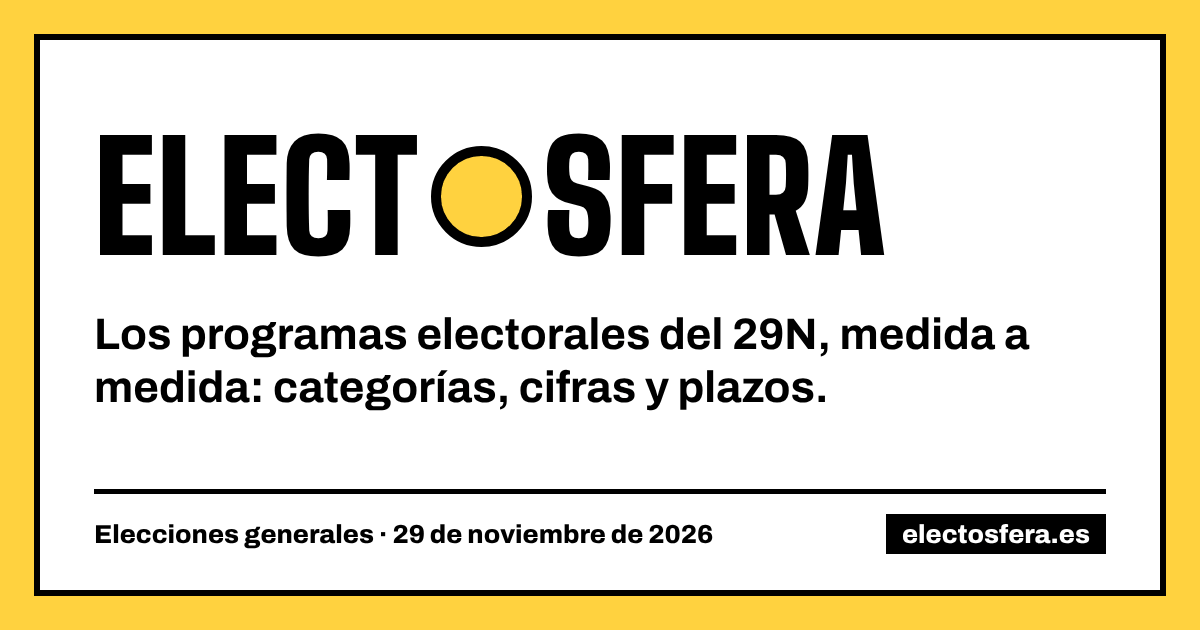
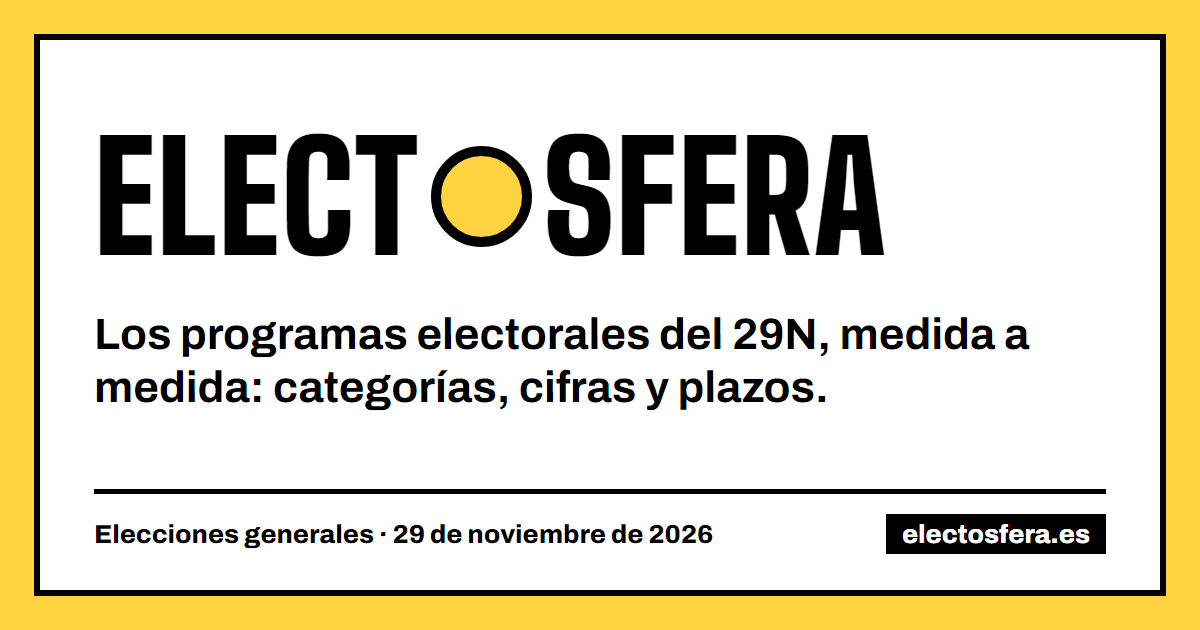
Posturas de Comuns, revisión de Alhora y sin tarjetas estáticas
- «Temas que dividen»: las posturas de Comuns en diez temas.
- Las cifras revisadas del programa de Alhora.
- Se borran las tarjetas estáticas de los partidos: las dibuja el Worker.
  La portada se vuelve a generar con la versión actual de las fuentes.

diff --git a/src/data/2026/generales/posturas.ts b/src/data/2026/generales/posturas.ts
@@ -57,6 +57,7 @@ export const stances: Stance[] = [
   { topic: 'aborto', party: 'fa', side: 'a', measures: [122, 123, 202], note: 'Blindaje constitucional del aborto «libre y universal» en la sanidad pública y una estrategia para garantizar la IVE en todas las comunidades.' },
   { topic: 'aborto', party: 'eh-bildu', side: 'a', measures: [121, 122], note: 'Blindar el derecho al aborto con acceso libre, seguro y confidencial, y protección frente al acoso en los centros.' },
   { topic: 'aborto', party: 'nex', side: 'a', measures: [129], note: 'Aborto garantizado en los centros públicos.' },
+  { topic: 'aborto', party: 'comuns', side: 'a', measures: [593], note: 'Un aborto seguro, legal y gratuito en cualquier lugar del territorio.' },
 
   // Monarquía o república
   { topic: 'monarquia', party: 'pfac', side: 'b', measures: [12], note: 'Avanzar hacia un Estado republicano, federal y laico.' },
@@ -78,6 +79,7 @@ export const stances: Stance[] = [
   { topic: 'autodeterminacion', party: 'fa', side: 'matiz', measures: [819, 821, 621], note: 'Una República Federal, un «federalismo social y plurinacional» y un pacto territorial con el máximo desarrollo de los Estatutos, sin proponer un referéndum de autodeterminación en España.' },
   { topic: 'autodeterminacion', party: 'eh-bildu', side: 'a', measures: [152, 153, 154], note: 'Reconocer a Euskal Herria como nación y el derecho a decidir del pueblo vasco como vía democrática para resolver el conflicto político con el Estado.' },
   { topic: 'autodeterminacion', party: 'alhora', side: 'a', measures: [1, 2, 4, 33], note: 'La independencia como objetivo: uso estratégico de las instituciones y confrontación continuada con el Estado.' },
+  { topic: 'autodeterminacion', party: 'comuns', side: 'a', measures: [890], note: 'Un cambio del modelo territorial en sentido federal y plurinacional, con el derecho a decidir mediante referéndum.' },
 
   // Vivienda: control del alquiler
   { topic: 'vivienda', party: 'adelante', side: 'a', measures: [160, 161, 164], note: 'Alquiler social obligatorio, alquiler al 20 % del salario y zonas tensionadas obligatorias.' },
@@ -106,6 +108,7 @@ export const stances: Stance[] = [
   { topic: 'vivienda', party: 'fia', side: 'b', measures: [7], note: 'Derogar el Real Decreto-ley del alquiler y la ley okupa, con el derecho a la propiedad privada por delante.' },
   { topic: 'vivienda', party: 'alhora', side: 'matiz', measures: [26, 29], note: 'Un gran parque público de alquiler, pero con un mercado privado «sense topall de preu» y garantías públicas ante el impago.' },
   { topic: 'vivienda', party: 'ixlg', side: 'matiz', measures: [2, 3], note: 'Más alquiler público permanente y prioridad del uso residencial frente al alquiler turístico, sin hablar de limitar los precios.' },
+  { topic: 'vivienda', party: 'comuns', side: 'a', measures: [19], note: 'Reforzar los mecanismos de regulación y control de los alquileres.' },
 
   // Religión y educación
   { topic: 'religion-educacion', party: 'bng', side: 'a', measures: [167], note: 'La Religión fuera del currículo y renegociar el concordato con la Santa Sede.' },
@@ -142,6 +145,7 @@ export const stances: Stance[] = [
   { topic: 'igualdad', party: 'fa', side: 'a', measures: [203, 211, 221], note: 'Erradicar la violencia machista y LGTBIfóbica, reforzar VioGén y la violencia vicaria y una estrategia estatal de educación en igualdad.' },
   { topic: 'igualdad', party: 'eh-bildu', side: 'a', measures: [125, 126, 127], note: 'Reconocer y penalizar la violencia vicaria, combatir los discursos antifeministas y revisar los recursos de protección de las víctimas.' },
   { topic: 'igualdad', party: 'nex', side: 'a', measures: [141], note: 'Refuerzo del Pacto de Estado contra la Violencia de Género y blindaje legal de los derechos LGTBI.' },
+  { topic: 'igualdad', party: 'comuns', side: 'a', measures: [796], note: 'Reforzar el sistema VioGén para proteger a las víctimas de la violencia machista.' },
 
   // Memoria histórica
   { topic: 'memoria', party: 'adelante', side: 'a', measures: [567, 572], note: 'Fin de la impunidad y la memoria en las aulas.' },
@@ -173,6 +177,7 @@ export const stances: Stance[] = [
   { topic: 'nuclear', party: 'compromis-front-valencia', side: 'a', measures: [248], note: 'Mantener el calendario de cierre de las centrales nucleares y no aceptar ninguna prórroga.' },
   { topic: 'nuclear', party: 'fa', side: 'a', measures: [389], note: 'Cumplir el calendario de cierre de las centrales nucleares: Almaraz I y II cerrarán en los plazos previstos, sin beneficios fiscales.' },
   { topic: 'nuclear', party: 'eh-bildu', side: 'a', measures: [93], note: 'Mantener el calendario de cierre nuclear del PNIEC.' },
+  { topic: 'nuclear', party: 'comuns', side: 'a', measures: [330], note: 'Cierre nuclear sin más prórrogas, sin nuevos reactores y sin beneficios fiscales.' },
 
   // Impuestos y redistribución
   { topic: 'impuestos', party: 'adelante', side: 'a', measures: [232, 233], note: 'IRPF más progresivo y un impuesto sobre la riqueza.' },
@@ -206,6 +211,7 @@ export const stances: Stance[] = [
   { topic: 'lenguas', party: 'alhora', side: 'a', measures: [6, 8, 9, 10], note: 'Escuelas 100 % en catalán, TV3 exclusivamente en catalán y contratos públicos solo a quien respete el catalán.' },
   { topic: 'lenguas', party: 'agenda-valenciana', side: 'a', measures: [10], note: 'Proteger y fomentar activamente el uso de la lengua valenciana.' },
   { topic: 'lenguas', party: 'eguzkilore', side: 'matiz', measures: [50], note: 'Dos lenguas en Navarra, castellano y euskera, que «convivan con respeto», sin medidas concretas.' },
+  { topic: 'lenguas', party: 'comuns', side: 'a', measures: [605], note: 'Defender la inmersión lingüística catalana y el catalán como lengua vehicular de la escuela.' },
 
   // Penas y facultades policiales
   { topic: 'seguridad', party: 'adelante', side: 'a', measures: [487, 496], note: 'Derogar la «ley mordaza» y la prisión permanente revisable.' },
@@ -223,6 +229,7 @@ export const stances: Stance[] = [
   { topic: 'seguridad', party: 'fa', side: 'a', measures: [843, 844, 853], note: 'Derogar «por completo la Ley Mordaza», reducir las multas excesivas y restringir las paradas de identificación policial.' },
   { topic: 'seguridad', party: 'eh-bildu', side: 'a', measures: [148, 149], note: 'Acabar con la Ley Mordaza (pelotas de goma, sanciones subjetivas) y eliminar delitos del Código Penal que restringen la libertad de expresión.' },
   { topic: 'seguridad', party: 'eguzkilore', side: 'a', measures: [57], note: 'Derogar la ley mordaza.' },
+  { topic: 'seguridad', party: 'comuns', side: 'a', measures: [944], note: 'Derogar los preceptos represivos de la Ley mordaza y crear mecanismos independientes de control.' },
 
   // Ley trans
   { topic: 'ley-trans', party: 'bng', side: 'a', measures: [142], note: 'Proteger a las personas trans menores, con su derecho a la autodeterminación de género.' },
@@ -235,6 +242,7 @@ export const stances: Stance[] = [
   { topic: 'ley-trans', party: 'fa', side: 'a', measures: [726, 727], note: 'Desplegar de forma efectiva la Ley Trans, reconocer a las personas no binarias y garantizar su aplicación.' },
   { topic: 'ley-trans', party: 'eh-bildu', side: 'a', measures: [128, 132], note: 'Prohibir las terapias de conversión y desarrollar el artículo 50 de la Ley 4/2023 para la igualdad real de las personas trans.' },
   { topic: 'ley-trans', party: 'eguzkilore', side: 'b', measures: [57], note: 'Revisar la «ley trans», junto a la ley de Bienestar Animal.' },
+  { topic: 'ley-trans', party: 'comuns', side: 'a', measures: [788], note: 'Las personas trans y no binarias son identificadas según su identidad de género manifestada.' },
 
   // Gestación subrogada
   { topic: 'gestacion-subrogada', party: 'adelante', side: 'b', measures: [521], note: 'Prohibir la gestación subrogada.' },
@@ -253,6 +261,7 @@ export const stances: Stance[] = [
   { topic: 'tauromaquia', party: 'compromis-front-valencia', side: 'a', measures: [380, 382], note: 'Suprimir los espectáculos taurinos con muerte, retirar las ayudas públicas y derogar la ley que los declara patrimonio cultural.' },
   { topic: 'tauromaquia', party: 'fa', side: 'a', measures: [178, 476, 477], note: 'Derogar la Ley 18/2013 que declara la tauromaquia patrimonio cultural y suprimir las subvenciones estatales.' },
   { topic: 'tauromaquia', party: 'eguzkilore', side: 'a', measures: [47], note: 'Una ley que prohíba herir y matar animales para uso de espectáculos, sin nombrar la tauromaquia.' },
+  { topic: 'tauromaquia', party: 'comuns', side: 'a', measures: [455], note: 'Derogar la ley que regula la tauromaquia como patrimonio cultural.' },
 
   // OTAN
   { topic: 'otan', party: 'ph', side: 'a', measures: [24], note: 'Neutralidad activa y salida de la OTAN.' },
@@ -287,4 +296,5 @@ export const stances: Stance[] = [
   { topic: 'servicio-militar', party: 'bng', side: 'a', measures: [492], note: 'Abolir para siempre el servicio militar obligatorio y prohibir por ley que vuelva.' },
   { topic: 'servicio-militar', party: 'salf', side: 'b', measures: [17, 18], note: 'Una «mili voluntaria» de seis a doce meses, pagada y con ventajas fiscales.' },
   { topic: 'servicio-militar', party: 'fe-jons', side: 'b', measures: [172], note: 'Servicio militar obligatorio de 18 meses para hombres y mujeres de 18 a 22 años.' },
+  { topic: 'servicio-militar', party: 'comuns', side: 'a', measures: [961], note: 'Compromiso de no reintroducir el servicio militar, ni obligatorio ni voluntario.' },
 ];
